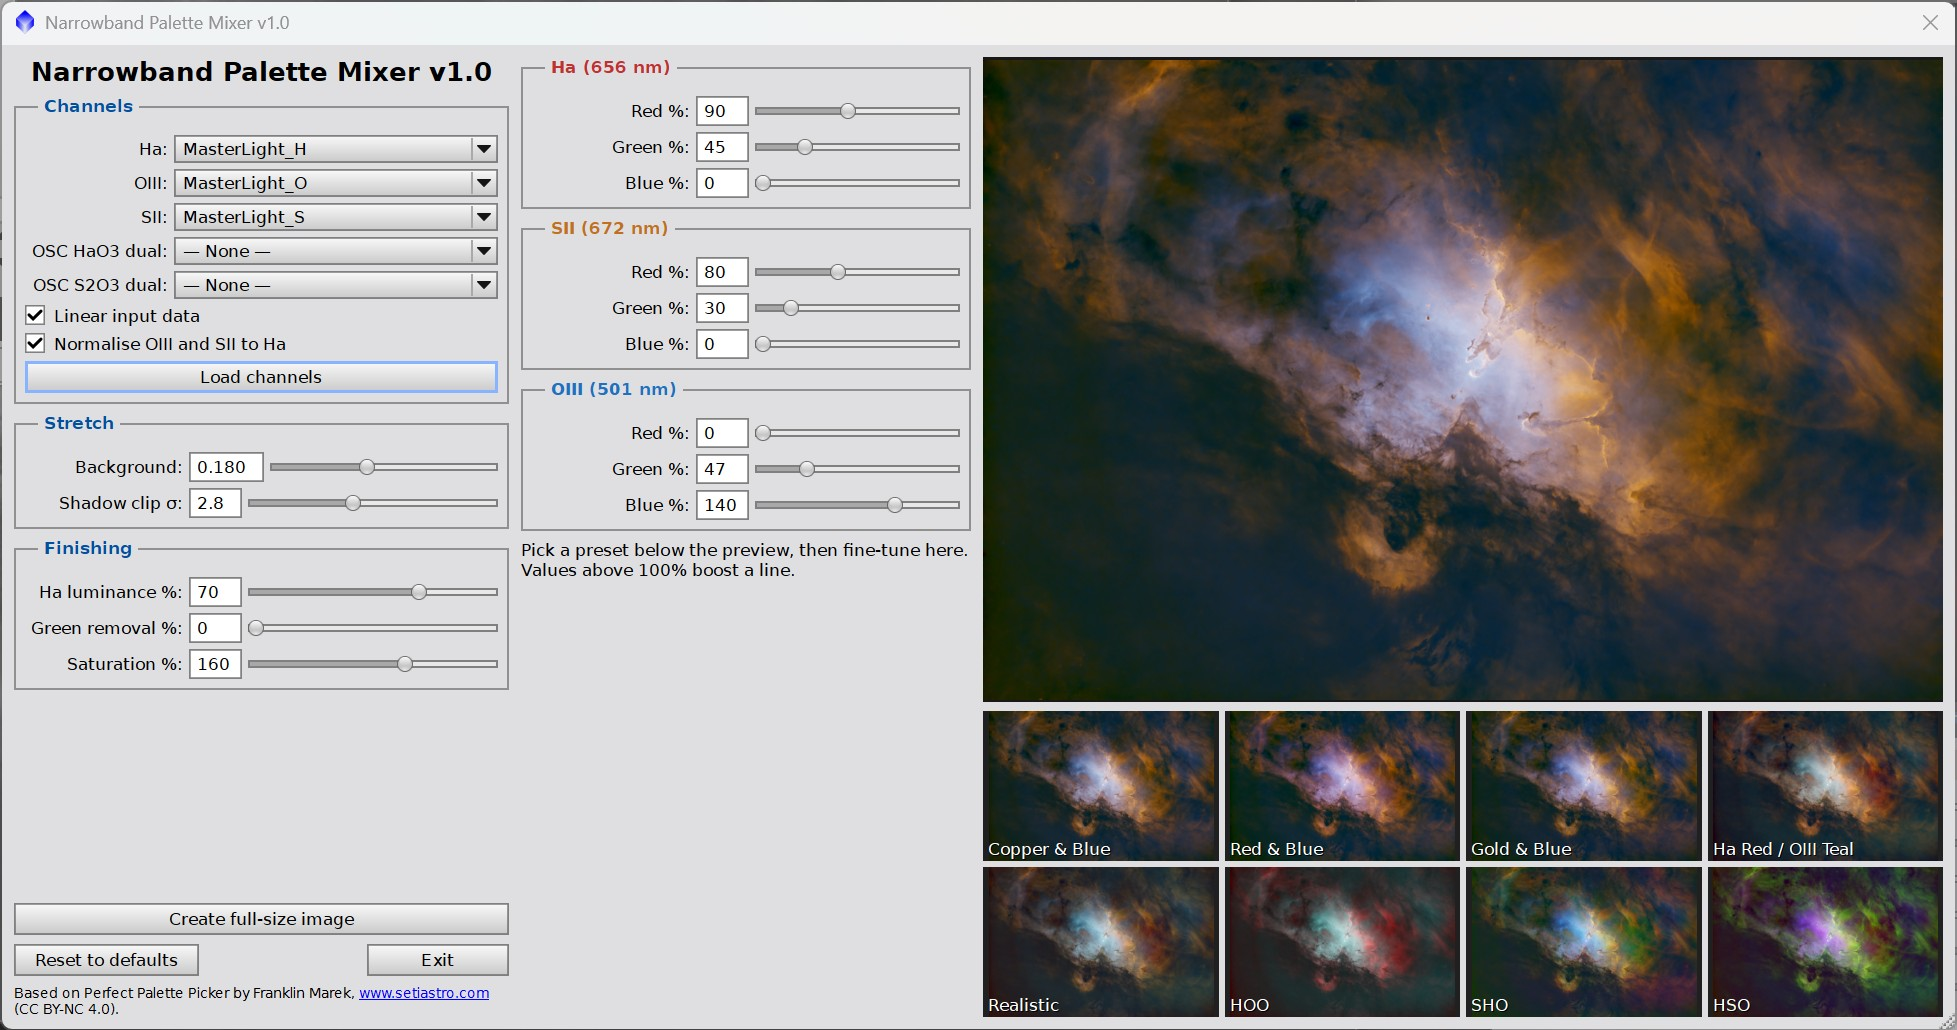
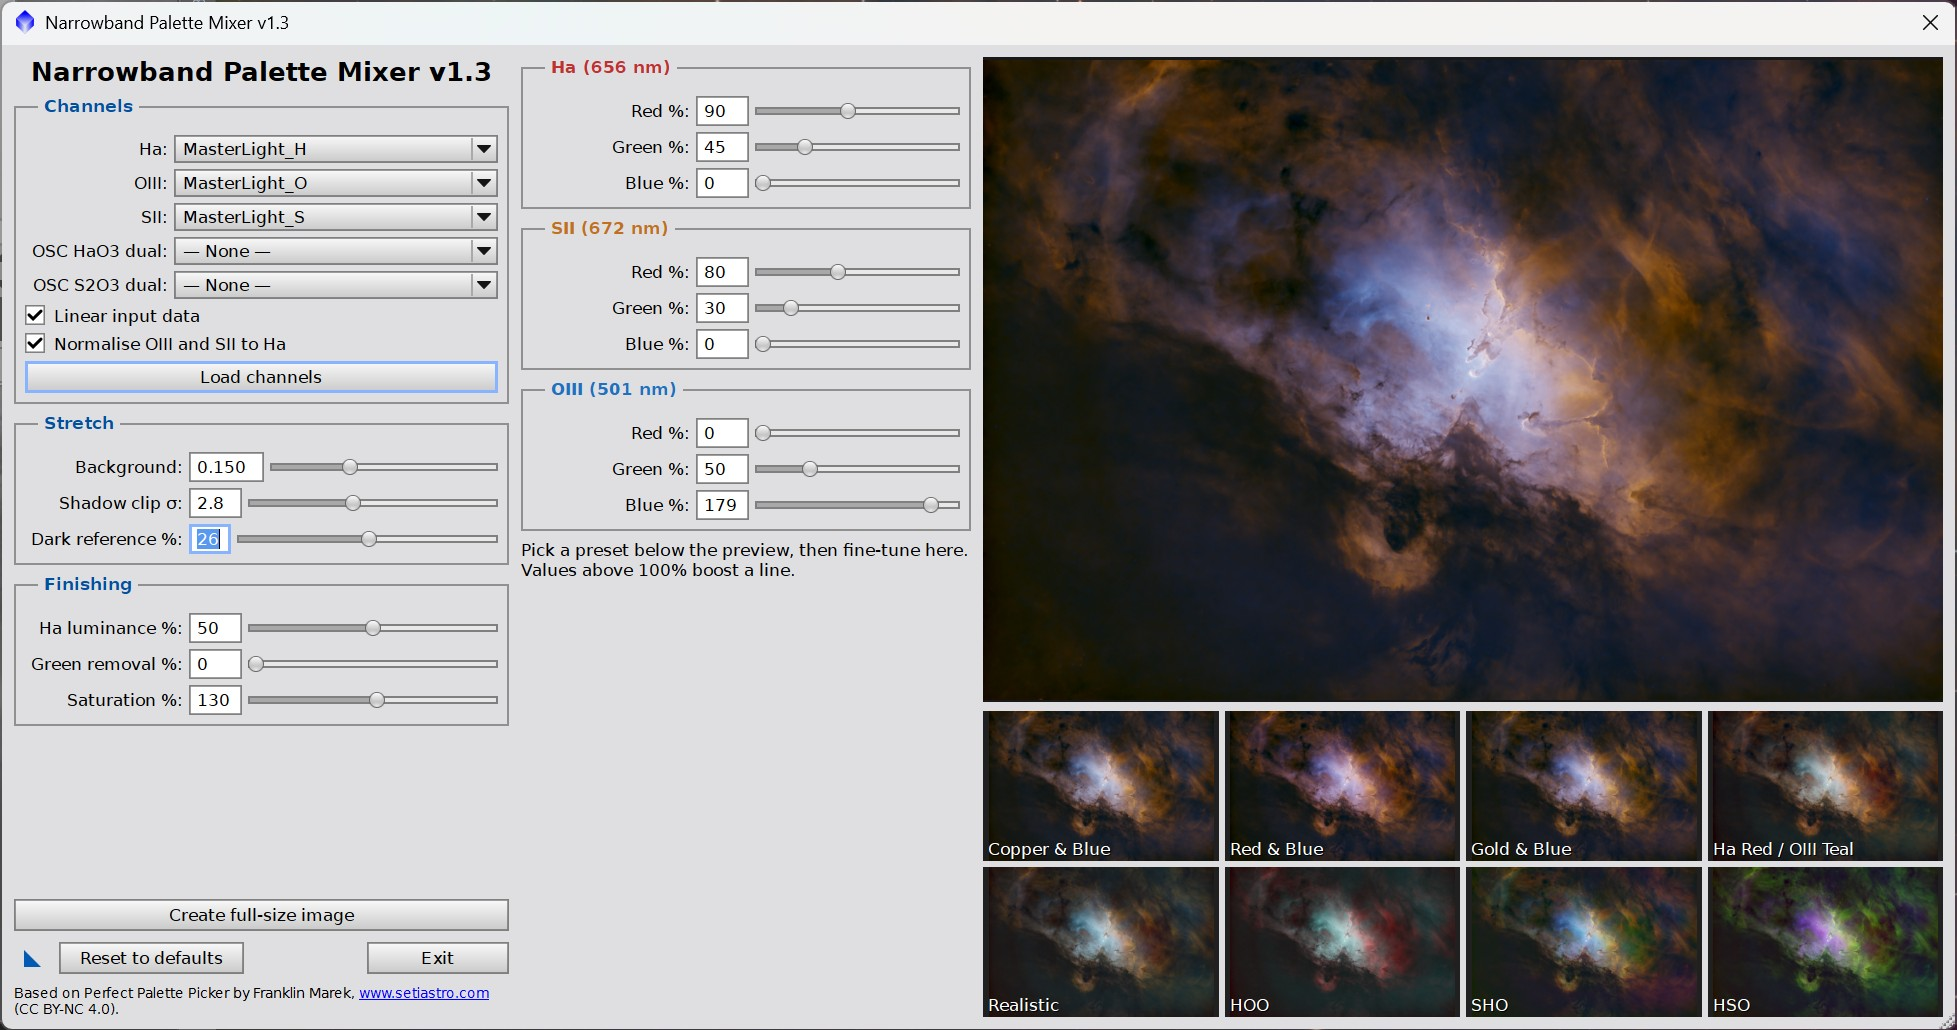
Use finished M16 image and v1.3 screenshot in README

diff --git a/README.md b/README.md
@@ -5,7 +5,9 @@ image. You set how much of each line goes into red, green and blue with
 sliders, and a live preview updates as you drag. The default palette gives the
 copper-and-blue look popular for SHO images, without the green.
 
-![M16 rendered with the Copper & Blue preset](docs/hero.jpg)
+![M16, the Eagle Nebula, processed with Narrowband Palette Mixer](docs/hero.jpg)
+
+*M16, the Eagle Nebula, processed with Narrowband Palette Mixer.*
 
 The mixer is based on
 [Perfect Palette Picker](https://www.setiastro.com) by Franklin Marek
